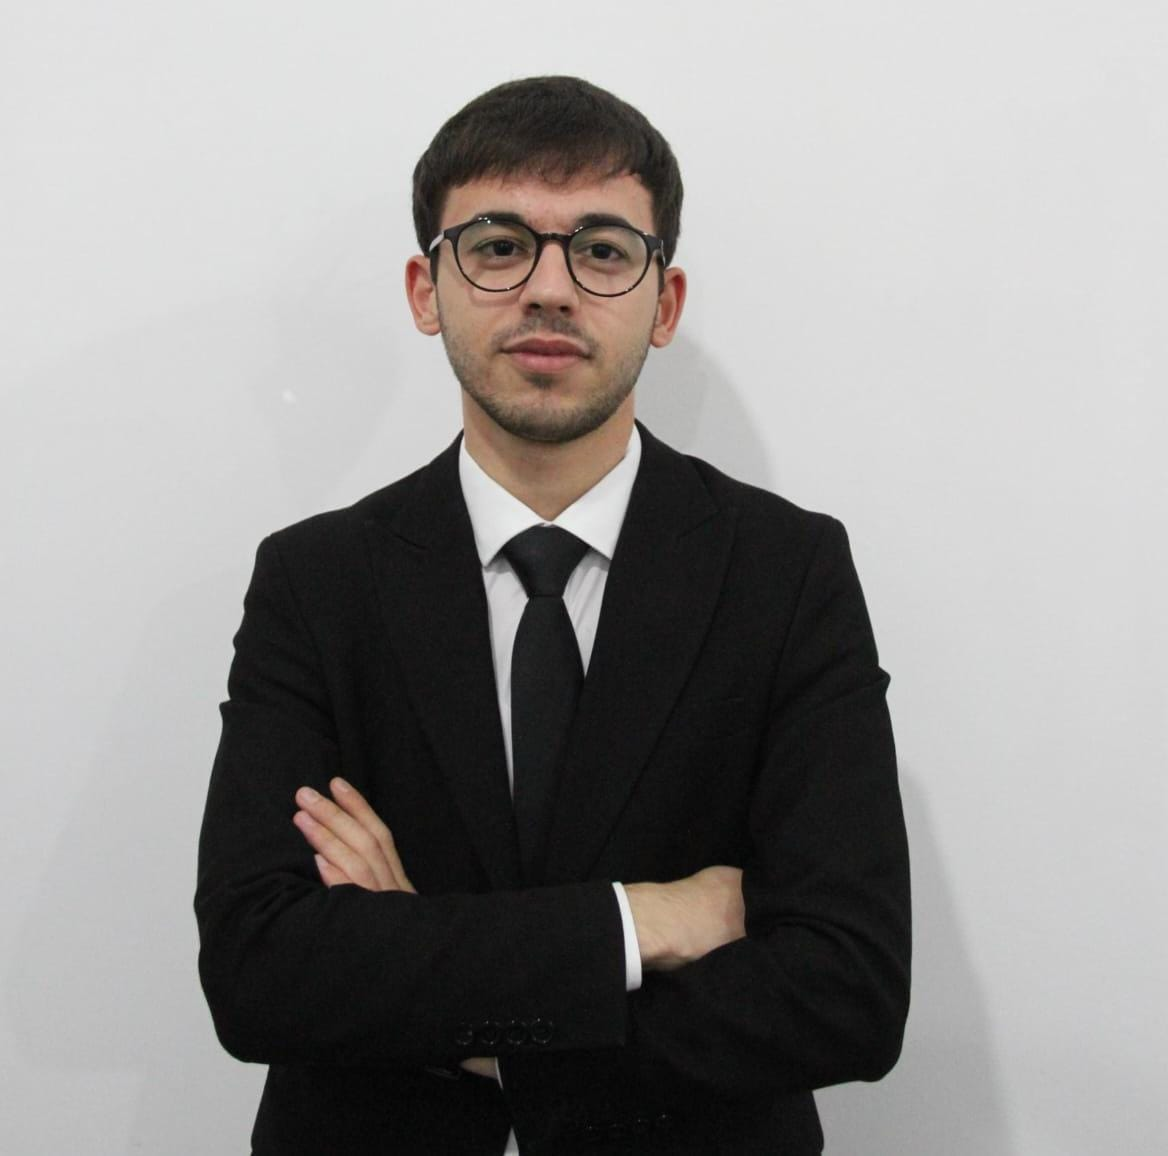
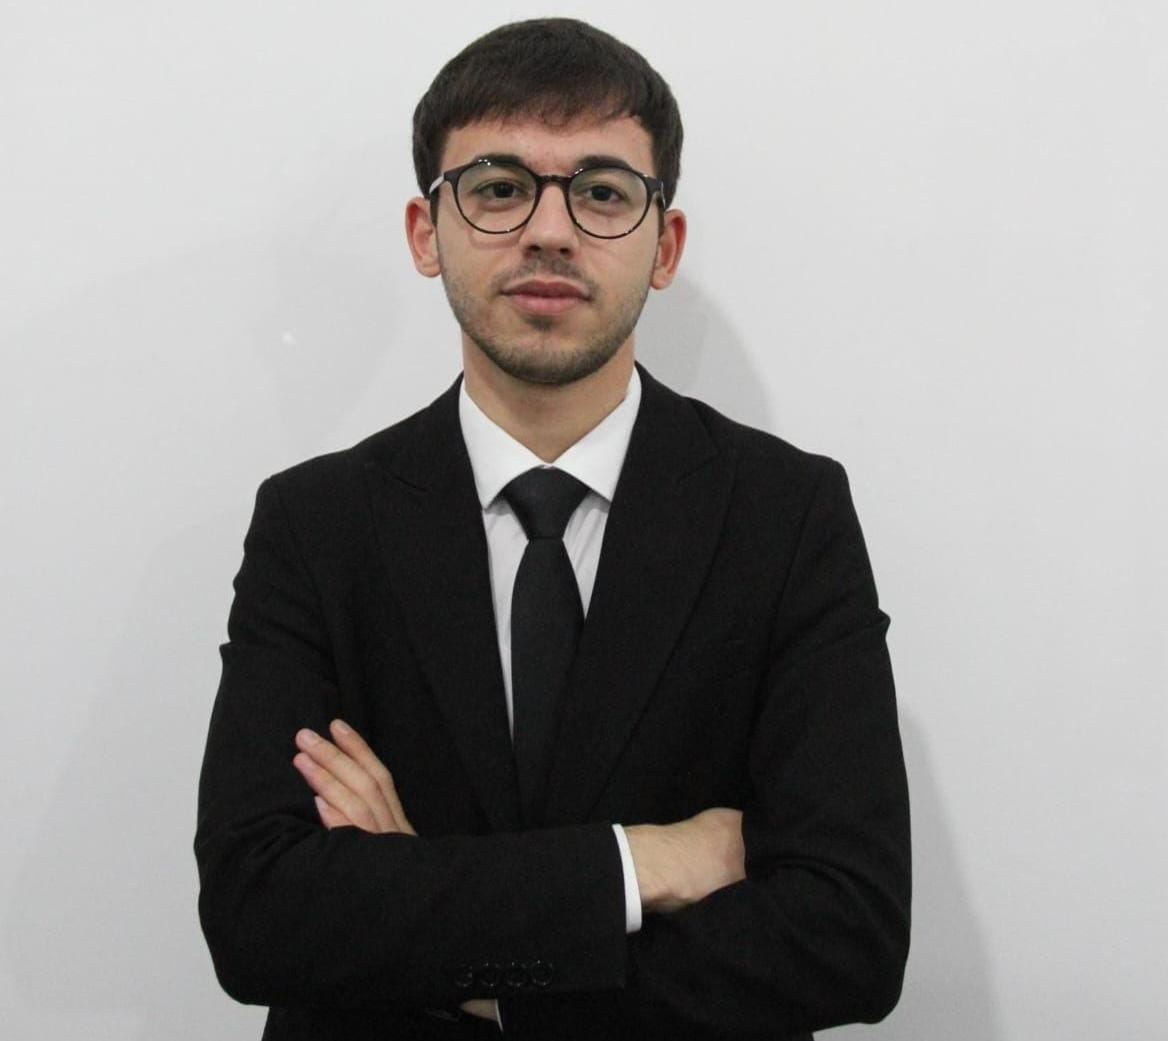
teachers section completed

diff --git a/src/components/Teachers.tsx b/src/components/Teachers.tsx
@@ -5,6 +5,7 @@ import HuseynImage from "/src/img/Hüseynağa.jpg";
 import AynurImage from "/src/img/Aynur.jpg";
 import FatimaImage from "/src/img/Fatimə.jpg";
 import YusifImage from "/src/img/Yusif.jpg";
+import RasimImage from "/src/img/Rasim.jpg";
 
 const teachers = [
   {
@@ -30,7 +31,7 @@ const teachers = [
     name: "Qafarov Rasim",
     profession: "Riyaziyyat müəllimi",
     bio: "Riyazi düşünmə və məntiqi analiz bacarıqlarını inkişaf etdirməyə yönəlmiş, tələbələrə hesablamaları daha asan qavramağa kömək edən müəllim.",
-    image: "https://images.unsplash.com/photo-1551989745-347c28b620e5?crop=entropy&cs=tinysrgb&fit=max&fm=jpg&ixid=M3w3Nzg4Nzd8MHwxfHNlYXJjaHwxfHxidXNpbmVzcyUyMHdvbWFuJTIwdGVhY2hlcnxlbnwxfHx8fDE3NjM3NTkyNTZ8MA&ixlib=rb-4.1.0&q=80&w=400",
+    image: RasimImage,
    
   },
     {
